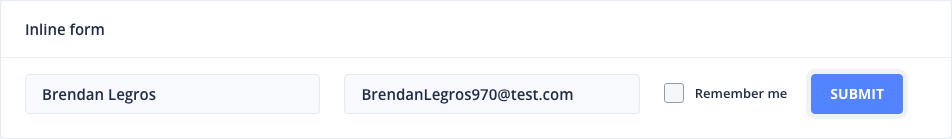
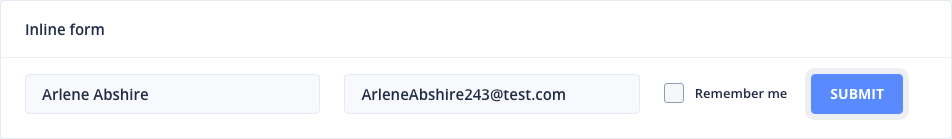
variable updates, refactoring

Changed region(s): [[0.3655, 0.6331, 0.6092, 0.7482], [0.0305, 0.6331, 0.1828, 0.7482]]

diff --git a/playwright.config.ts b/playwright.config.ts
@@ -1,4 +1,5 @@
-import { defineConfig, devices } from '@playwright/test'
+import { defineConfig, devices } from "@playwright/test"
+import type { TestOptions } from "./test-options"
 
 /**
  * Read environment variables from file.
@@ -8,10 +9,12 @@ import { defineConfig, devices } from '@playwright/test'
 // import path from 'path';
 // dotenv.config({ path: path.resolve(__dirname, '.env') });
 
+require('dotenv').config()
+
 /**
  * See https://playwright.dev/docs/test-configuration.
  */
-export default defineConfig({
+export default defineConfig<TestOptions>({
   /* Some examples of timeout */
   // timeout: 10000,
   // globalTimeout: 60000,
@@ -19,7 +22,7 @@ export default defineConfig({
   // expect:{
   //   timeout: 2000
   // },
-  testDir: './tests',
+  testDir: "./tests",
   /* Run tests in files in parallel */
   fullyParallel: true,
   /* Fail the build on CI if you accidentally left test.only in the source code. */
@@ -29,32 +32,44 @@ export default defineConfig({
   /* Opt out of parallel tests on CI. */
   workers: process.env.CI ? 1 : 1,
   /* Reporter to use. See https://playwright.dev/docs/test-reporters */
-  reporter: 'html',
+  reporter: "html",
   /* Shared settings for all the projects below. See https://playwright.dev/docs/api/class-testoptions. */
   use: {
     /* Base URL to use in actions like `await page.goto('/')`. */
-    // baseURL: 'http://localhost:3000',
+    // baseURL: "http://localhost:4200/",
+    globalsQaURL: "https://www.globalsqa.com/demo-site/draganddrop/",
+    baseURL: process.env.DEV === '1' ? 'http://localhost:4200/'
+          : process.env.STAGING == '1' ? 'http://localhost:4202/'
+          : 'http://localhost:4201/',
 
     /* Collect trace when retrying the failed test. See https://playwright.dev/docs/trace-viewer */
-    trace: 'on-first-retry',
+    trace: "on-first-retry",
     navigationTimeout: 5000,
   },
 
   /* Configure projects for major browsers */
   projects: [
     {
-      name: 'chromium',
-      use: { ...devices['Desktop Chrome'] },
+      name: "dev",
+      use: { ...devices["Desktop Chrome"], baseURL: "http://localhost:4201/" }, // just examples of how to change for different environments
+    },
+    {
+      name: "staging",
+      use: { ...devices["Desktop Chrome"], baseURL: "http://localhost:4202/" },
+    },
+    {
+      name: "chromium",
+      use: { ...devices["Desktop Chrome"] },
     },
 
     {
-      name: 'firefox',
-      use: { ...devices['Desktop Firefox'] },
+      name: "firefox",
+      use: { ...devices["Desktop Firefox"] },
     },
 
     {
-      name: 'webkit',
-      use: { ...devices['Desktop Safari'] },
+      name: "webkit",
+      use: { ...devices["Desktop Safari"] },
     },
 
     /* Test against mobile viewports. */

diff --git a/tests/usePageObjects.spec.ts b/tests/usePageObjects.spec.ts
@@ -3,7 +3,7 @@ import { PageManager } from "../page-objects/pageManager"
 import { faker } from "@faker-js/faker"
 
 test.beforeEach(async ({ page }) => {
-  await page.goto("http://localhost:4200/")
+  await page.goto('/')
 })
 
 test("navigate to form page", async ({ page }) => {
@@ -21,12 +21,12 @@ test("parameterized methods", async ({ page }) => {
   const randomEmail = `${randomFullName.replace(/\s/g, "")}${faker.number.int(1000)}@test.com`
 
   await pm.navigateTo().formsLayoutsPage()
-  await pm.onFormsLayoutsPage().submitUsingTheGridFormWithCredentialsAndSelectOption("test@test.com", "Welcome1", "Option 1")
+  await pm.onFormsLayoutsPage().submitUsingTheGridFormWithCredentialsAndSelectOption(process.env.USERNAME, process.env.PASSWORD, "Option 1")
   await pm.onFormsLayoutsPage().submitInlineFormWithNameEmailAndCheckbox(randomFullName, randomEmail, false)
   await page.screenshot({ path: "screenshots/formsLayoutsPage.png" })
   await page.locator("nb-card", { hasText: "Inline form" }).screenshot({ path: "screenshots/inlineForm.png" })
   const buffer = await page.screenshot()
-  console.log(buffer.toString("base64"))
+  // console.log(buffer.toString("base64")) could use for something like slack
   await pm.navigateTo().datepickerPage()
   await pm.onDatepickerPage().selectCommonDatePickerDateFromToday(5)
   await pm.onDatepickerPage().selectDatepickerWithRangeFromToday(6, 15)

diff --git a/tests/dragAndDropWithiFrame.spec.ts b/tests/dragAndDropWithiFrame.spec.ts
@@ -1,16 +1,17 @@
-import { test, expect } from '@playwright/test'
+import { expect } from "@playwright/test"
+import { test } from "../test-options"
 
-test('drag and drop with iframe', async ({ page }) => {
-  await page.goto('https://www.globalsqa.com/demo-site/draganddrop/')
+test("drag and drop with iframe", async ({ page, globalsQaURL }) => {
+  await page.goto(globalsQaURL)
 
   const frame = page.frameLocator('[rel-title="Photo Manager"] iframe')
-  await frame.locator('li', { hasText: 'High Tatras 2' }).dragTo(frame.locator('#trash'))
+  await frame.locator("li", { hasText: "High Tatras 2" }).dragTo(frame.locator("#trash"))
 
   //more precise control
-  await frame.locator('li', { hasText: 'High Tatras 4' }).hover()
+  await frame.locator("li", { hasText: "High Tatras 4" }).hover()
   await page.mouse.down()
-  await frame.locator('#trash').hover()
+  await frame.locator("#trash").hover()
   await page.mouse.up()
 
-  await expect(frame.locator('#trash li h5')).toHaveText(['High Tatras 2', 'High Tatras 4'])
+  await expect(frame.locator("#trash li h5")).toHaveText(["High Tatras 2", "High Tatras 4"])
 })

diff --git a/page-objects/navigationPage.ts b/page-objects/navigationPage.ts
@@ -2,7 +2,7 @@ import { Locator, Page } from "@playwright/test"
 import { HelperBase } from "./helperBase"
 
 export class NavigationPage extends HelperBase {
-  readonly formLayoutMenuItem: Locator
+  readonly formsLayoutMenuItem: Locator
   readonly datepickerMenuItem: Locator
   readonly smartTableMenuItem: Locator
   readonly toastrMenuItem: Locator
@@ -11,7 +11,7 @@ export class NavigationPage extends HelperBase {
   constructor(page: Page) {
     super(page)
 
-    this.formLayoutMenuItem = page.getByText("Form Layouts")
+    this.formsLayoutMenuItem = page.getByText("Form Layouts")
     this.datepickerMenuItem = page.getByText("Datepicker")
     this.smartTableMenuItem = page.getByText("Smart Table")
     this.toastrMenuItem = page.getByText("Toastr")
@@ -20,7 +20,7 @@ export class NavigationPage extends HelperBase {
 
   async formsLayoutsPage() {
     await this.selectGroupMenuItem("Forms")
-    await this.formLayoutMenuItem.click()
+    await this.formsLayoutMenuItem.click()
     await this.waitForNumberOfSeconds(2)
   }
 

diff --git a/tests/uiComponents.spec.ts b/tests/uiComponents.spec.ts
@@ -1,14 +1,14 @@
 import { expect, test } from "@playwright/test"
 
-test.describe.configure({mode: 'parallel'})
+test.describe.configure({ mode: "parallel" })
 
 test.beforeEach(async ({ page }) => {
-  await page.goto("http://localhost:4200/")
+  await page.goto("/")
 })
 
 test.describe.parallel("Form Layouts page", () => {
   test.describe.configure({ retries: 2 })
-  
+
   test.beforeEach(async ({ page }) => {
     await page.getByText("Forms").click()
     await page.getByText("Form Layouts").click()

diff --git a/tests/autoWaiting.spec.ts b/tests/autoWaiting.spec.ts
@@ -1,7 +1,7 @@
 import { expect, test } from '@playwright/test'
 
 test.beforeEach(async ({ page }, testInfo) => {
-  await page.goto('http://uitestingplayground.com/ajax')
+  await page.goto(process.env.URL)
   await page.getByText('Button Triggering AJAX Request').click()
   testInfo.setTimeout(testInfo.timeout + 2000)
 })

diff --git a/tests/firstTest.spec.ts b/tests/firstTest.spec.ts
@@ -1,7 +1,7 @@
 import { expect, test } from '@playwright/test'
 
 test.beforeEach(async ({ page }) => {
-  await page.goto('http://localhost:4200/')
+  await page.goto('/')
   await page.getByText('Forms').click()
   await page.getByText('Form Layouts').click()
 })

diff --git a/test-options.ts b/test-options.ts
@@ -1,0 +1,10 @@
+import {test as base} from "@playwright/test"
+
+export type TestOptions = {
+  globalsQaURL: string
+}
+
+export const test = base.extend<TestOptions>({
+  globalsQaURL: ['', {option: true}]
+})
+
